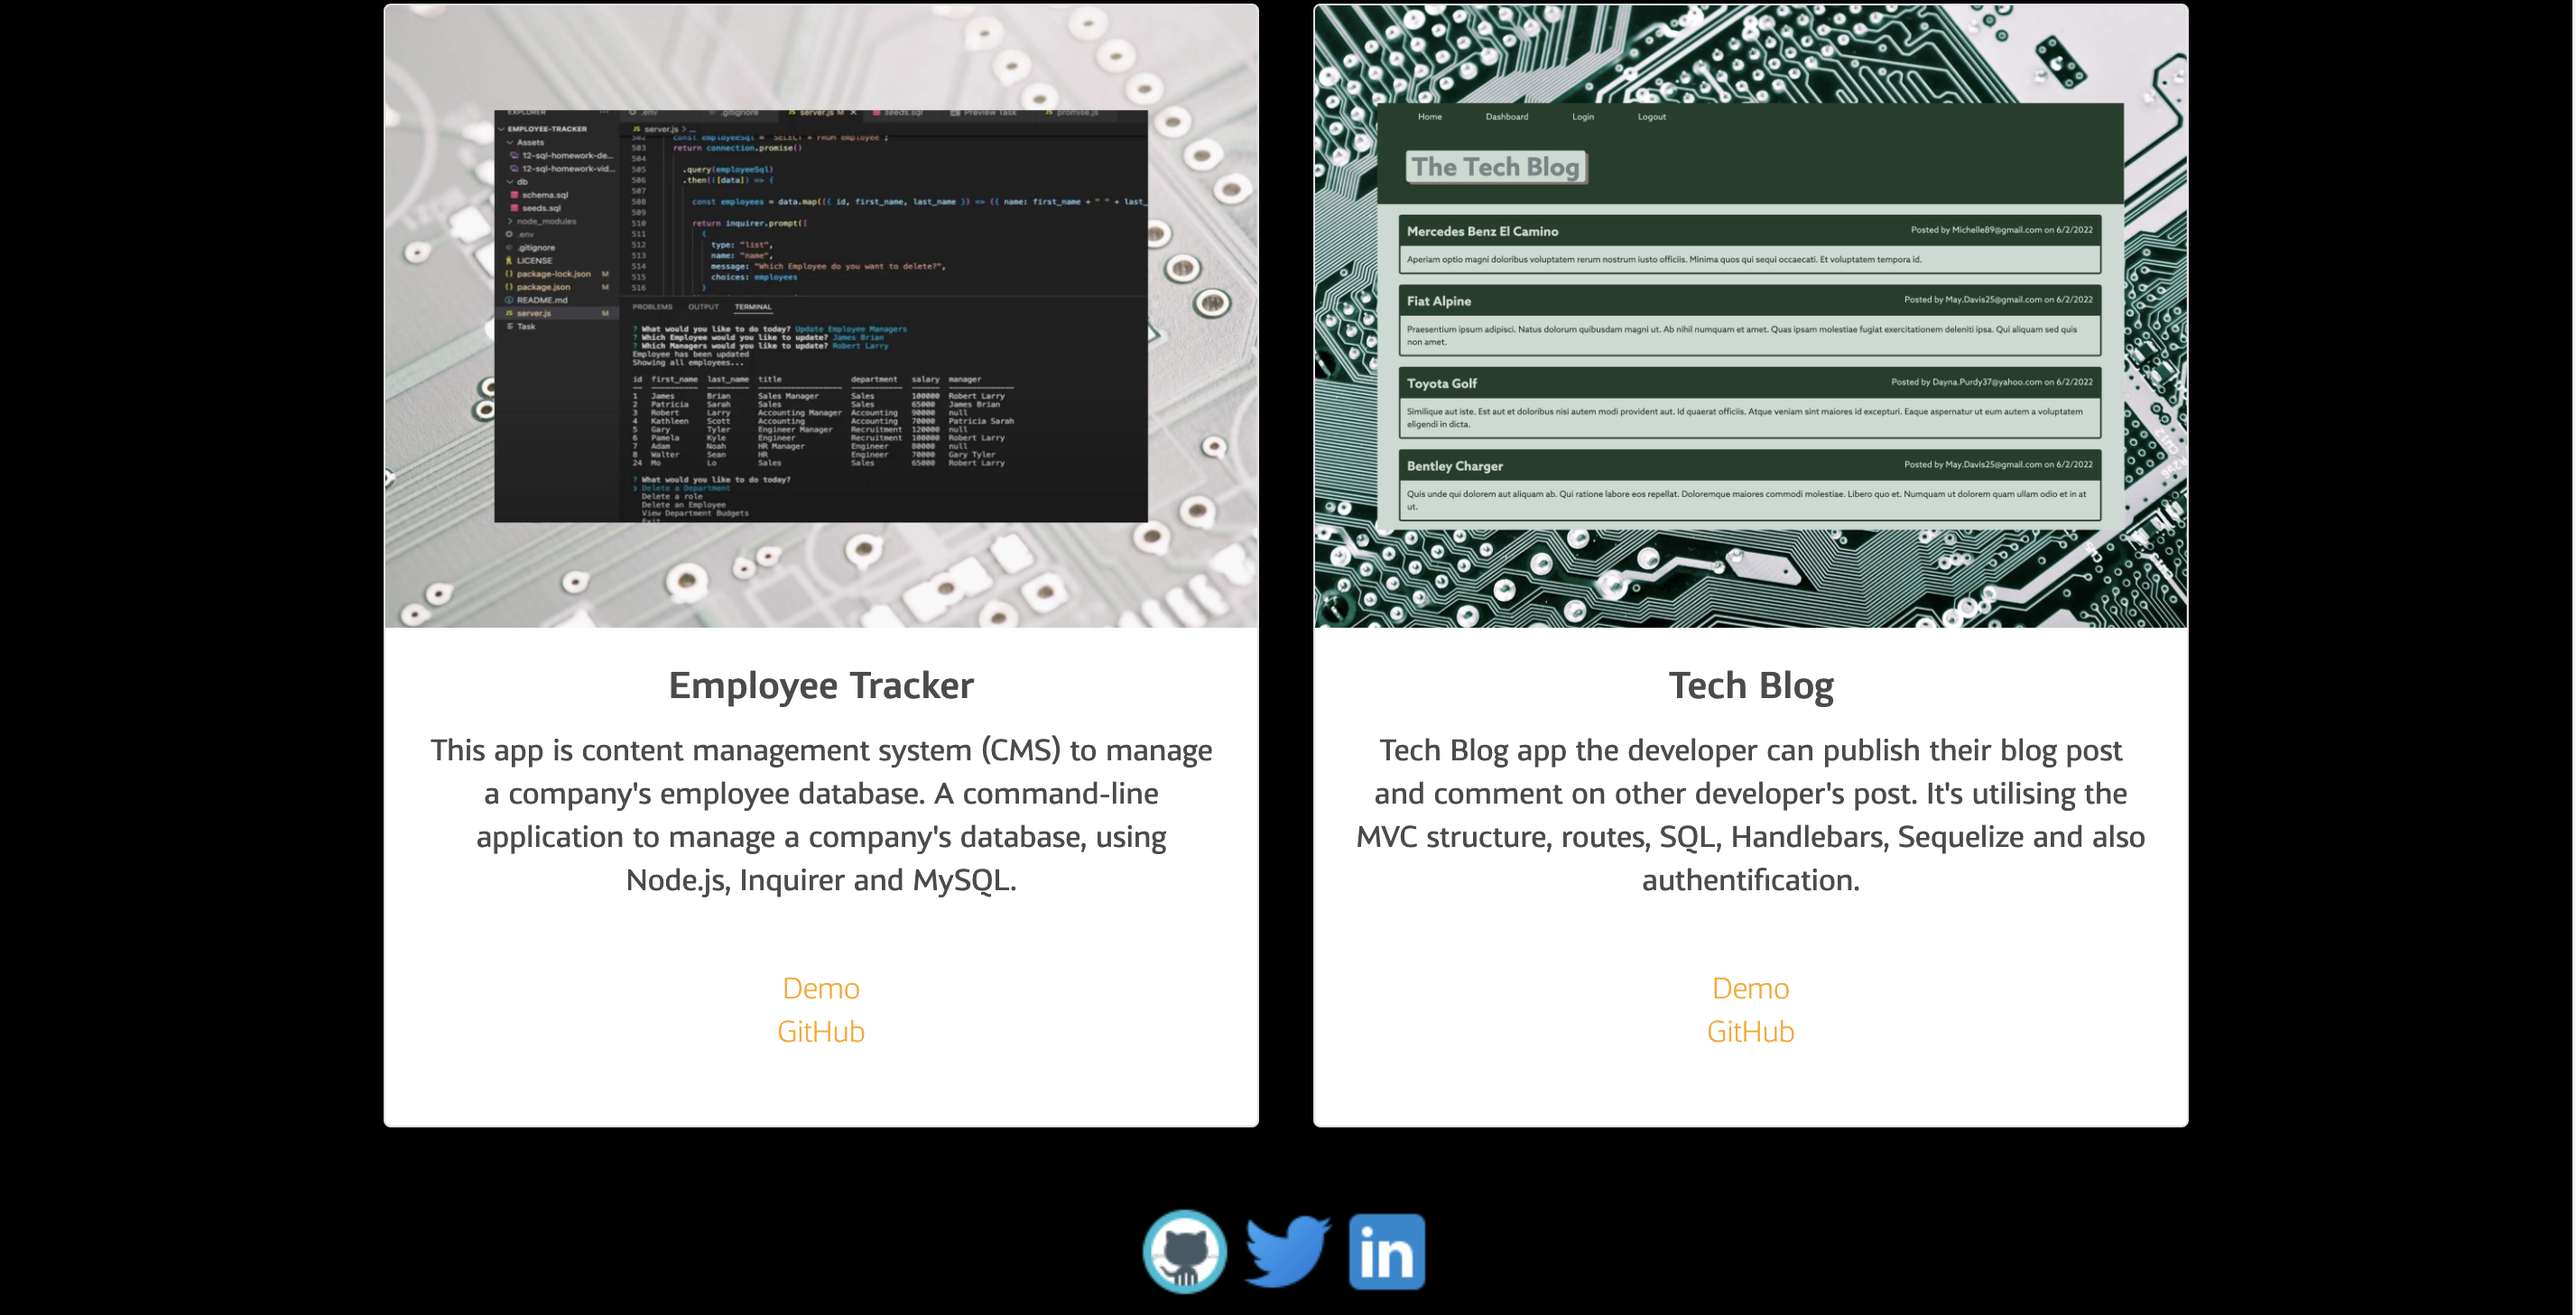
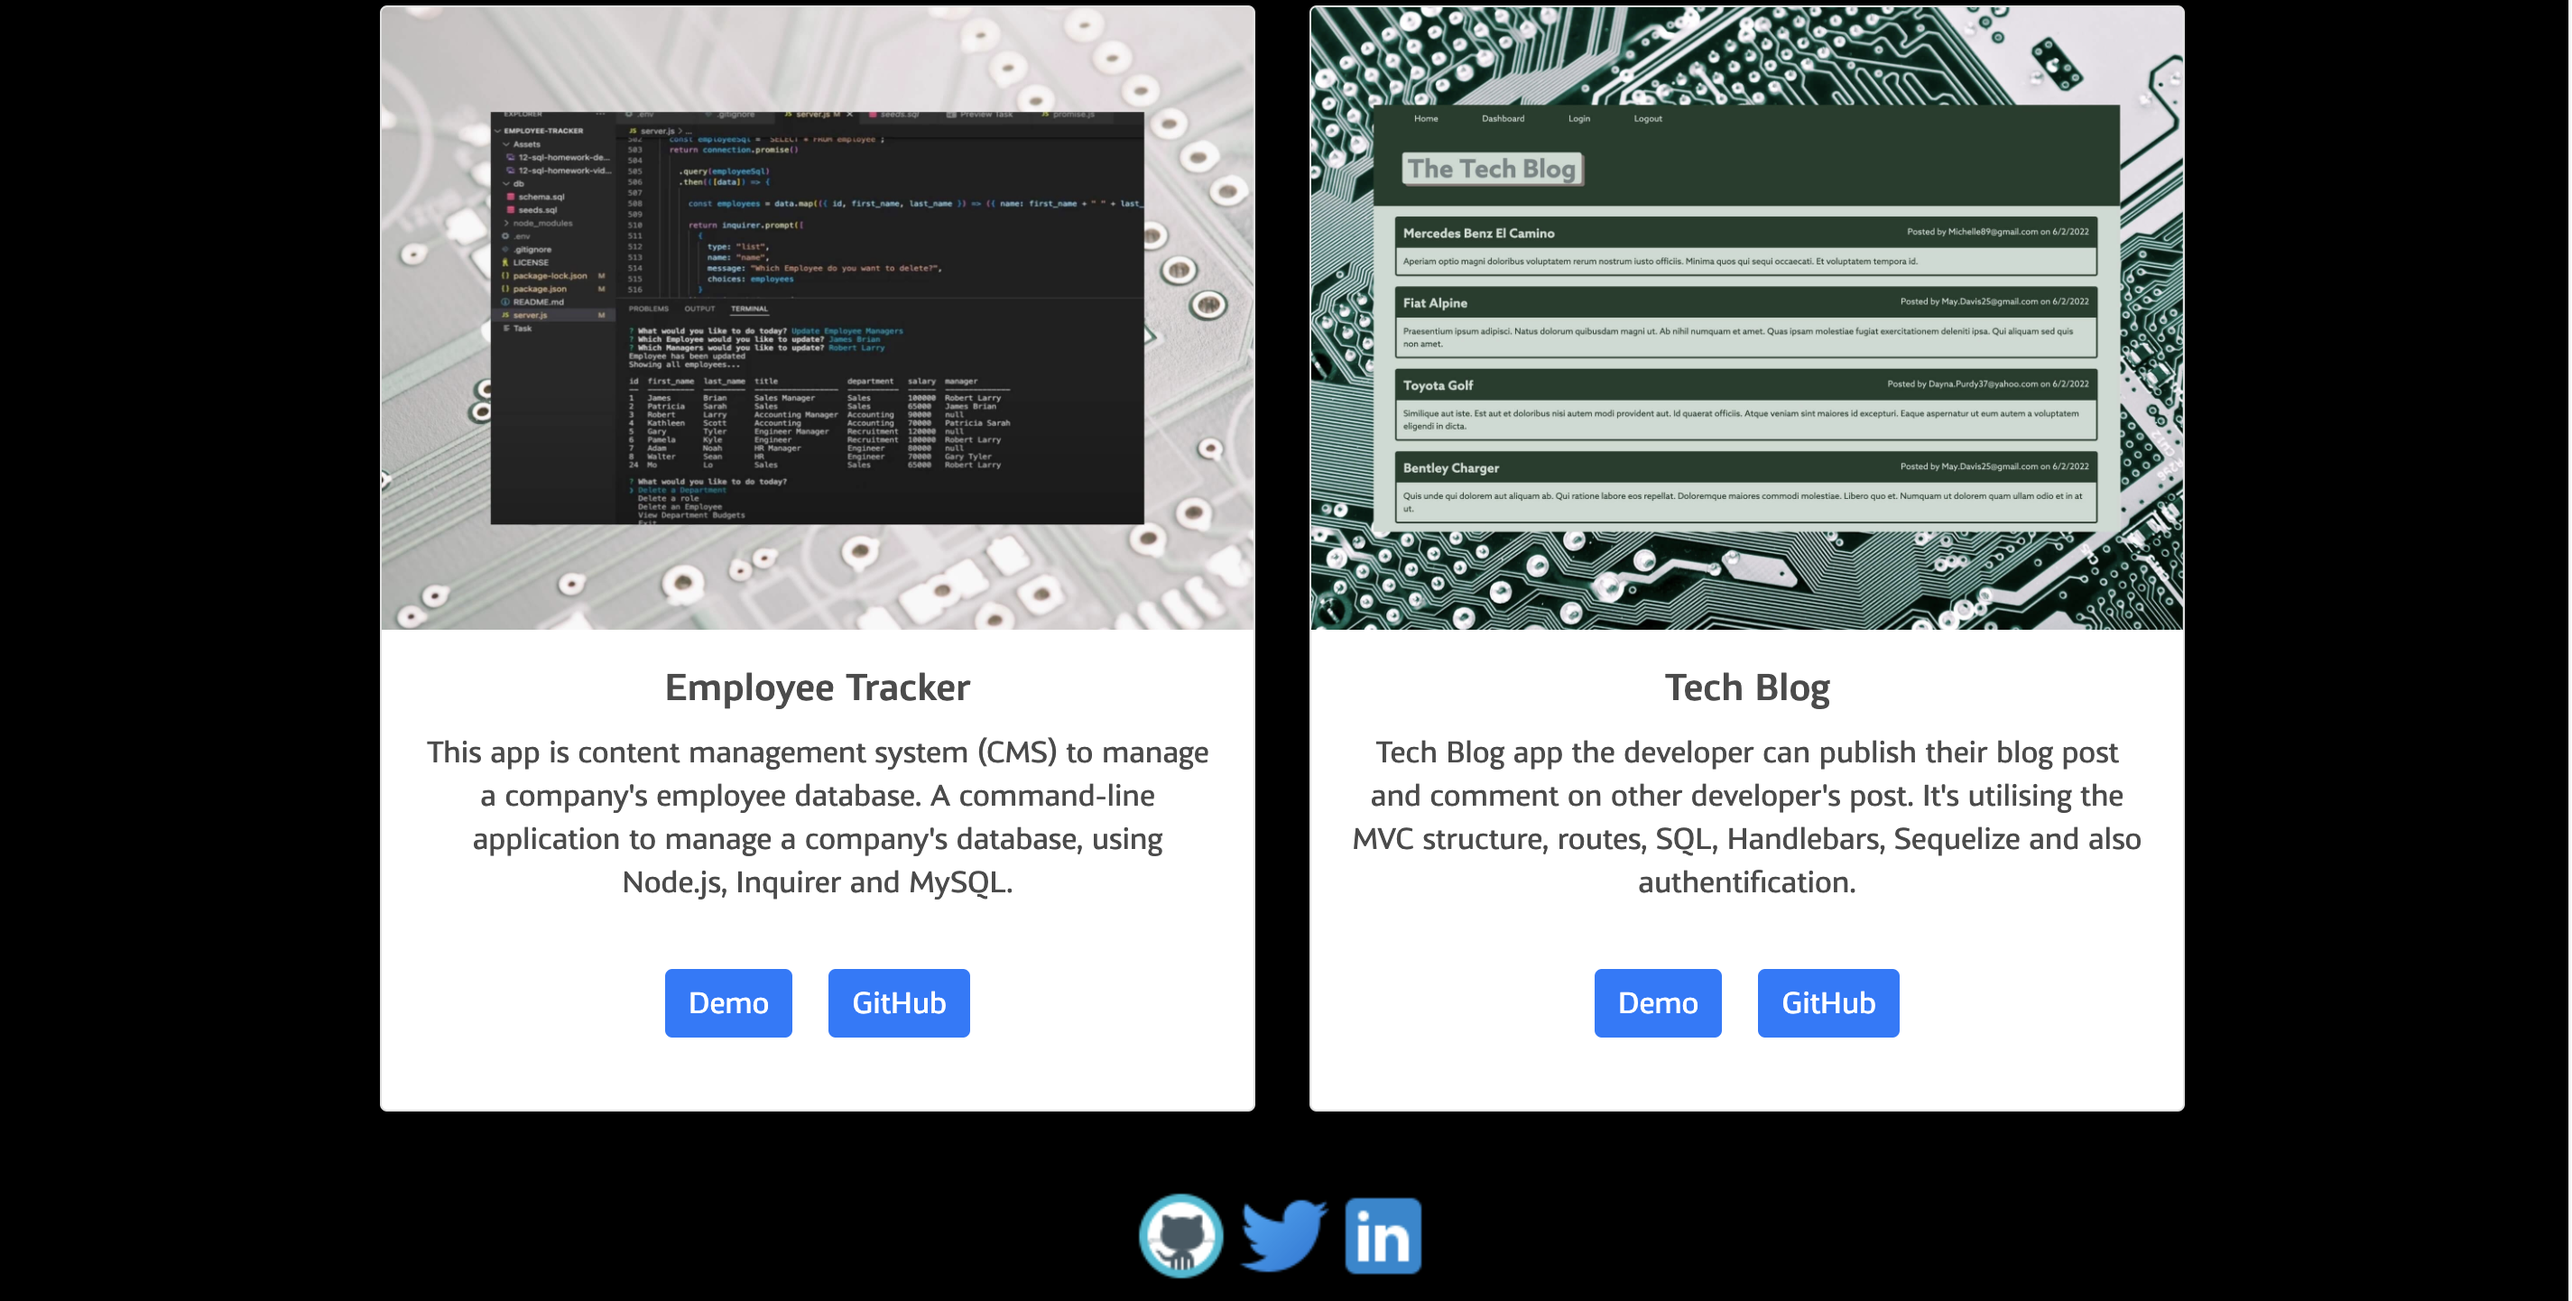
add button

diff --git a/src/components/ProjectCard.js b/src/components/ProjectCard.js
@@ -12,13 +12,11 @@ function ProjectCard(props) {
                 <h5 className="card-title">{props.name}</h5>
                 <p className="card-text">{props.description}</p>
                 <div className="card-body">
-                    <a className="card-link" href={props.demo}>Demo</a>
-                <div>
-                    <a className="card-link" href={props.github}>GitHub</a>
+                    <a className="btn btn-primary card-link" href={props.demo}>Demo</a>
+                    <a className="btn btn-primary card-link" href={props.github}>GitHub</a>
                 </div>    
                 </div>
             </div>
-        </div>
 
     );
 }

diff --git a/src/pages/ContactMe.js b/src/pages/ContactMe.js
@@ -12,7 +12,7 @@ const ContactMe = () => {
                 <input type="email" className="form-control" id="emailInput" placeholder="name@example.com"/>
             </div>
             <div className="form-group">
-            <label for="comments">Comments</label>
+            <label for="message">Message</label>
             <textarea className="form-control" id="comments" rows="3"></textarea>
             </div>
             <button type="submit" class="btn btn-primary">Submit</button>
